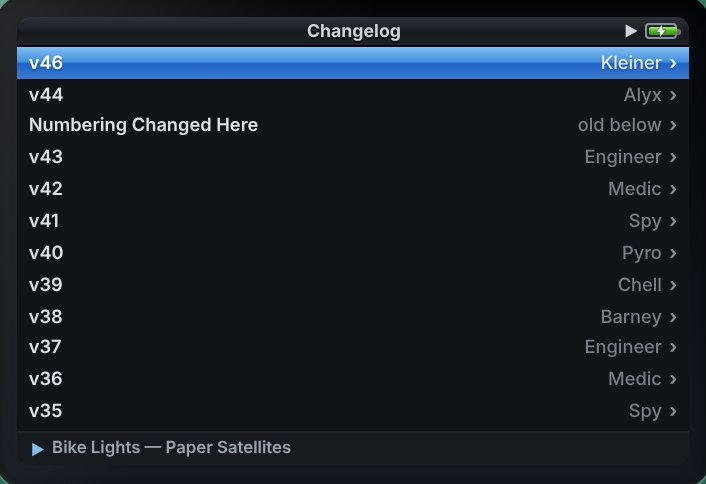
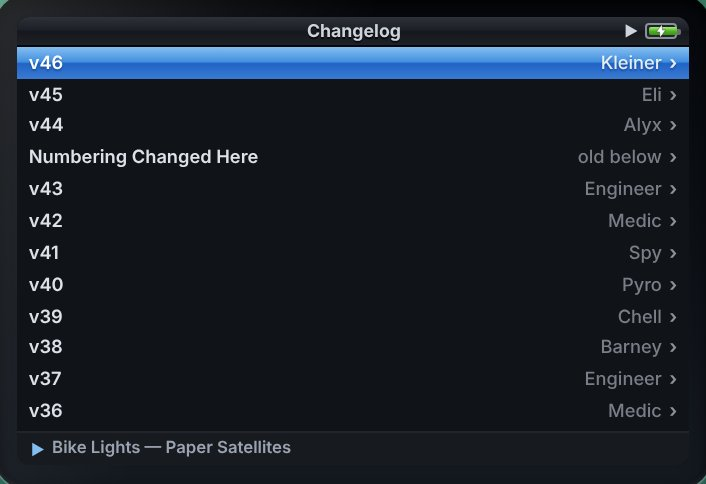
Keep Eli: v45 was the first beta, v46 is the small one
Claude-Session: https://claude.ai/code/session_0196H8RBrsk62vmQc2Wm45Jf

diff --git a/index.html b/index.html
@@ -147,7 +147,7 @@
           "name": "Is the beta safe to install?",
           "acceptedAnswer": {
             "@type": "Answer",
-            "text": "v46 is the first beta. Most of it works: playing music, the library, playlists, the lock screen and the notification are what get used every day. Some of it will not work on your phone, because it has been tried on a few phones and not on hundreds. It only reads your music, it never changes or deletes your files, and it can be uninstalled like any other app. When something goes wrong, the feedback form or an email to hostlabosupport@gmail.com is how it gets fixed."
+            "text": "Hplay has been in beta since v45. Most of it works: playing music, the library, playlists, the lock screen and the notification are what get used every day. Some of it will not work on your phone, because it has been tried on a few phones and not on hundreds. It only reads your music, it never changes or deletes your files, and it can be uninstalled like any other app. When something goes wrong, the feedback form or an email to hostlabosupport@gmail.com is how it gets fixed."
           }
         },
         {
@@ -259,7 +259,7 @@
   <main id="main">
   <div class="hero-grid">
     <div class="hero-in">
-      <span class="sticker"><span id="verNow">v46.0.0 &ldquo;Kleiner&rdquo;</span> &middot; the first beta</span>
+      <span class="sticker"><span id="verNow">v46.0.0 &ldquo;Kleiner&rdquo;</span> &middot; beta</span>
       <h1 class="head"><span class="brand">Hplay</span>Your music.<br>On a wheel.</h1>
       <p class="dek">An Android music player with a click wheel, for the songs you already own. No account, no cloud, no ads. Download it and it is yours.</p>
       <a class="get" href="https://hplay.hosttost.workers.dev/hplay-latest.apk"><svg viewBox="0 0 24 24" fill="none" stroke="currentColor" stroke-width="2.4" stroke-linecap="round" stroke-linejoin="round" aria-hidden="true"><path d="M12 3v12"/><path d="M6.5 11.5 12 17l5.5-5.5"/><path d="M4 20h16"/></svg>
@@ -295,7 +295,7 @@
       <div class="split">
         <div>
           <div class="sec"><span class="sticker ">The news</span><h2 class="head">Hplay is in beta</h2></div>
-          <p class="lede">v46 &ldquo;Kleiner&rdquo; is the first beta. After forty-four rounds of alpha, Hplay is ready for people who were not there while it was built.</p>
+          <p class="lede">v45 &ldquo;Eli&rdquo; was the first beta: after forty-four rounds of alpha, Hplay is ready for people who were not there while it was built. v46 &ldquo;Kleiner&rdquo; is the same app at a quarter of the size.</p>
           <div class="prose">
             <p>Beta means it is good enough to use every day and not yet finished. Here is what that comes to if you are deciding whether to install it.</p>
           </div>
@@ -327,7 +327,7 @@
         </div>
       </div>
 
-      <h3 style="margin-top:52px">New in v46</h3>
+      <h3 style="margin-top:52px">New in the beta</h3>
       <div class="duo">
         <figure class="tcard">
           <span class="tape" aria-hidden="true"></span>
@@ -819,7 +819,7 @@
       </div>
       <div class="qa">
         <h3>Is the beta safe to install?</h3>
-        <p>v46 is the first beta. Most of it works: playing music, the library, playlists, the lock screen and the notification are what get used every day. Some of it will not work on your phone, because it has been tried on a few phones and not on hundreds. It only reads your music, it never changes or deletes your files, and it can be uninstalled like any other app. When something goes wrong, <a href="feedback.html">the feedback form</a> or an email to <a href="mailto:hostlabosupport@gmail.com">hostlabosupport@gmail.com</a> is how it gets fixed.</p>
+        <p>Hplay has been in beta since v45. Most of it works: playing music, the library, playlists, the lock screen and the notification are what get used every day. Some of it will not work on your phone, because it has been tried on a few phones and not on hundreds. It only reads your music, it never changes or deletes your files, and it can be uninstalled like any other app. When something goes wrong, <a href="feedback.html">the feedback form</a> or an email to <a href="mailto:hostlabosupport@gmail.com">hostlabosupport@gmail.com</a> is how it gets fixed.</p>
       </div>
       <div class="qa">
         <h3>Does Hplay use the internet?</h3>

diff --git a/changelog.html b/changelog.html
@@ -83,7 +83,7 @@
     <span class="sticker">Every release</span>
     <h1 class="head">Changelog</h1>
     <p class="dek">Every release, newest first. Each number gets a few lines on what the whole run was for, and its releases underneath.</p>
-    <p class="stamp">82 releases across 19 numbered runs &nbsp;·&nbsp; newest v46.0.0 “Kleiner” &nbsp;·&nbsp; written from the app's own changelog on 2026-11-15</p>
+    <p class="stamp">83 releases across 20 numbered runs &nbsp;·&nbsp; newest v46.0.0 “Kleiner” &nbsp;·&nbsp; written from the app's own changelog on 2026-11-15</p>
   </div>
 </div>
 
@@ -97,15 +97,37 @@
       <span class="count">1 release &nbsp;v46.0.0</span>
     </div>
     <ul class="about">
-      <li>The first beta: out of alpha at last</li>
-      <li>A look of its own: the hexagon and Hplay green</li>
-      <li>A widget with buttons, in four sizes</li>
-      <li>Vinyl redrawn, and store apps that fit in</li>
+      <li>A quarter of the size it was</li>
+      <li>The same Hplay, without the code it never used</li>
     </ul>
     <details open>
       <summary>The release</summary>
       <div class="rel">
         <h3>v46.0.0 <span class="kind">Proud</span></h3>
+        <ul>
+          <li>A much smaller download: 3.5 MB instead of 12.5 MB</li>
+          <li>Code Hplay never used is left out of the app</li>
+        </ul>
+      </div>
+    </details>
+  </div>
+
+  <div class="run">
+    <div class="runhead">
+      <h2>v45</h2>
+      <span class="code">Eli</span>
+      <span class="count">1 release &nbsp;v45.0.0</span>
+    </div>
+    <ul class="about">
+      <li>The first beta: out of alpha at last</li>
+      <li>A look of its own: the hexagon and Hplay green</li>
+      <li>A widget with buttons, in four sizes</li>
+      <li>Vinyl redrawn, and store apps that fit in</li>
+    </ul>
+    <details>
+      <summary>The release</summary>
+      <div class="rel">
+        <h3>v45.0.0 <span class="kind">Proud</span></h3>
         <ul>
           <li>Vinyl mode, redrawn from the groove up</li>
           <li>Each record is pressed in its cover's own colours</li>
@@ -132,7 +154,6 @@
           <li>If something breaks, Hplay offers to send a report</li>
           <li>You choose; it never includes your music</li>
           <li>Notes is gone from Apps, to keep Hplay about music</li>
-          <li>A much smaller download: 3.5 MB instead of 12.5 MB</li>
           <li>Every widget size is listed: one cell, square, bar, big</li>
           <li>The widget and lock screen never keep the last cover</li>
           <li>A new widget: the cover, the title and the artist</li>

diff --git a/review.html b/review.html
@@ -289,7 +289,7 @@
       <div class="eyebrow">Project review · alpha · 14 September 2026</div>
       <h1>Hplay</h1>
       <p class="dek">A classic scroll-wheel music player, rebuilt from scratch for Android, and handed to its first alpha tester today.</p>
-      <p class="since">This was written in September 2026 and is kept as it was, picture included. Hplay has been in beta since v46; <a href="./">the home page</a> has it as it is now.</p>
+      <p class="since">This was written in September 2026 and is kept as it was, picture included. Hplay has been in beta since v45; <a href="./">the home page</a> has it as it is now.</p>
       <div class="stamp">
         <span class="now">v38.0 “Barney”</span>
         <span>alpha</span>
